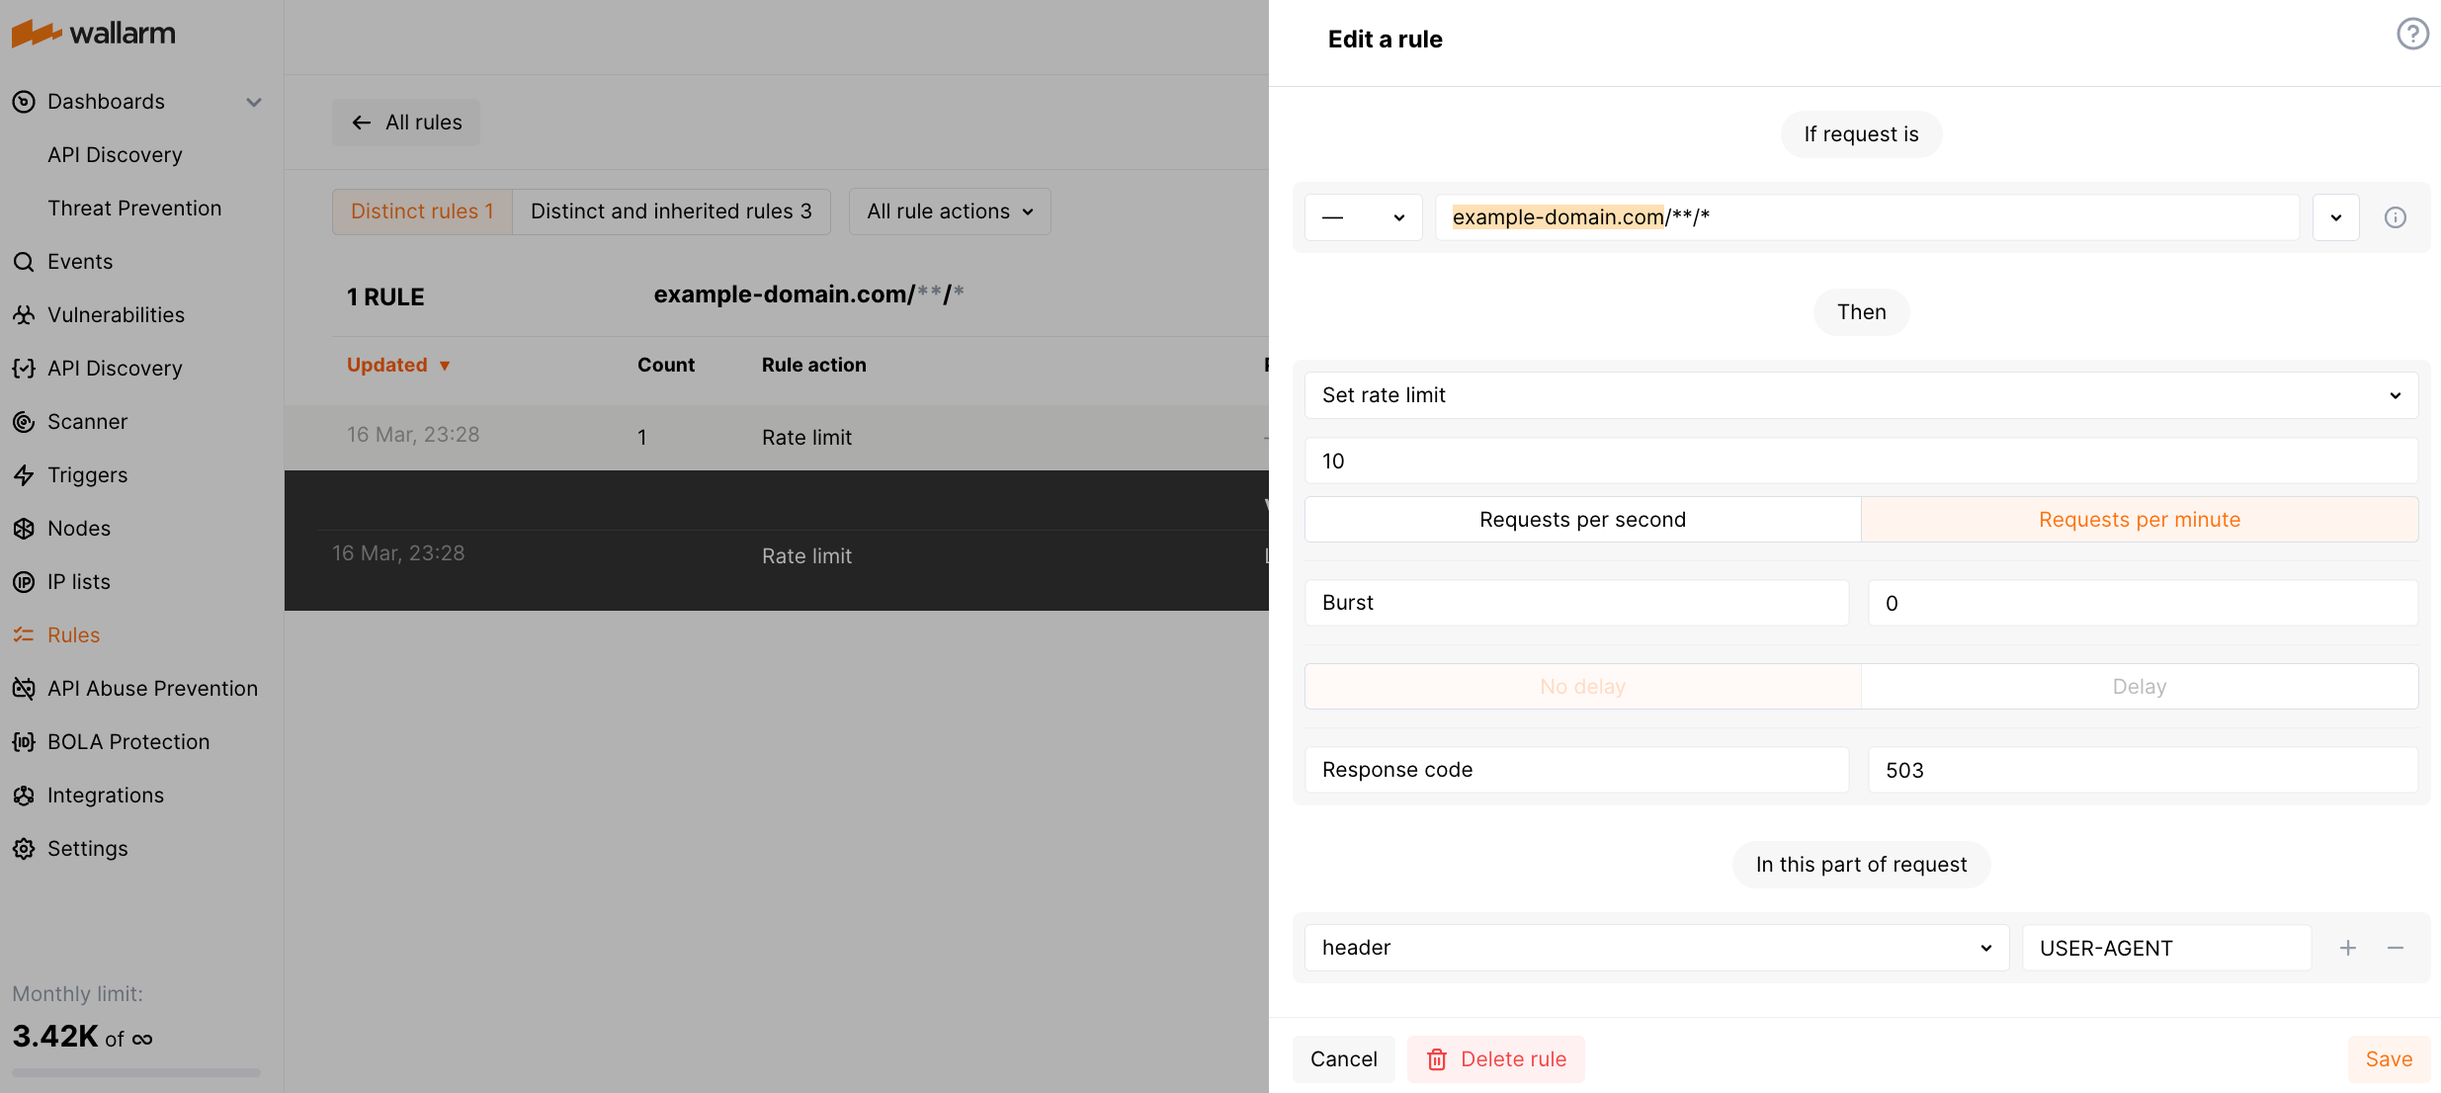
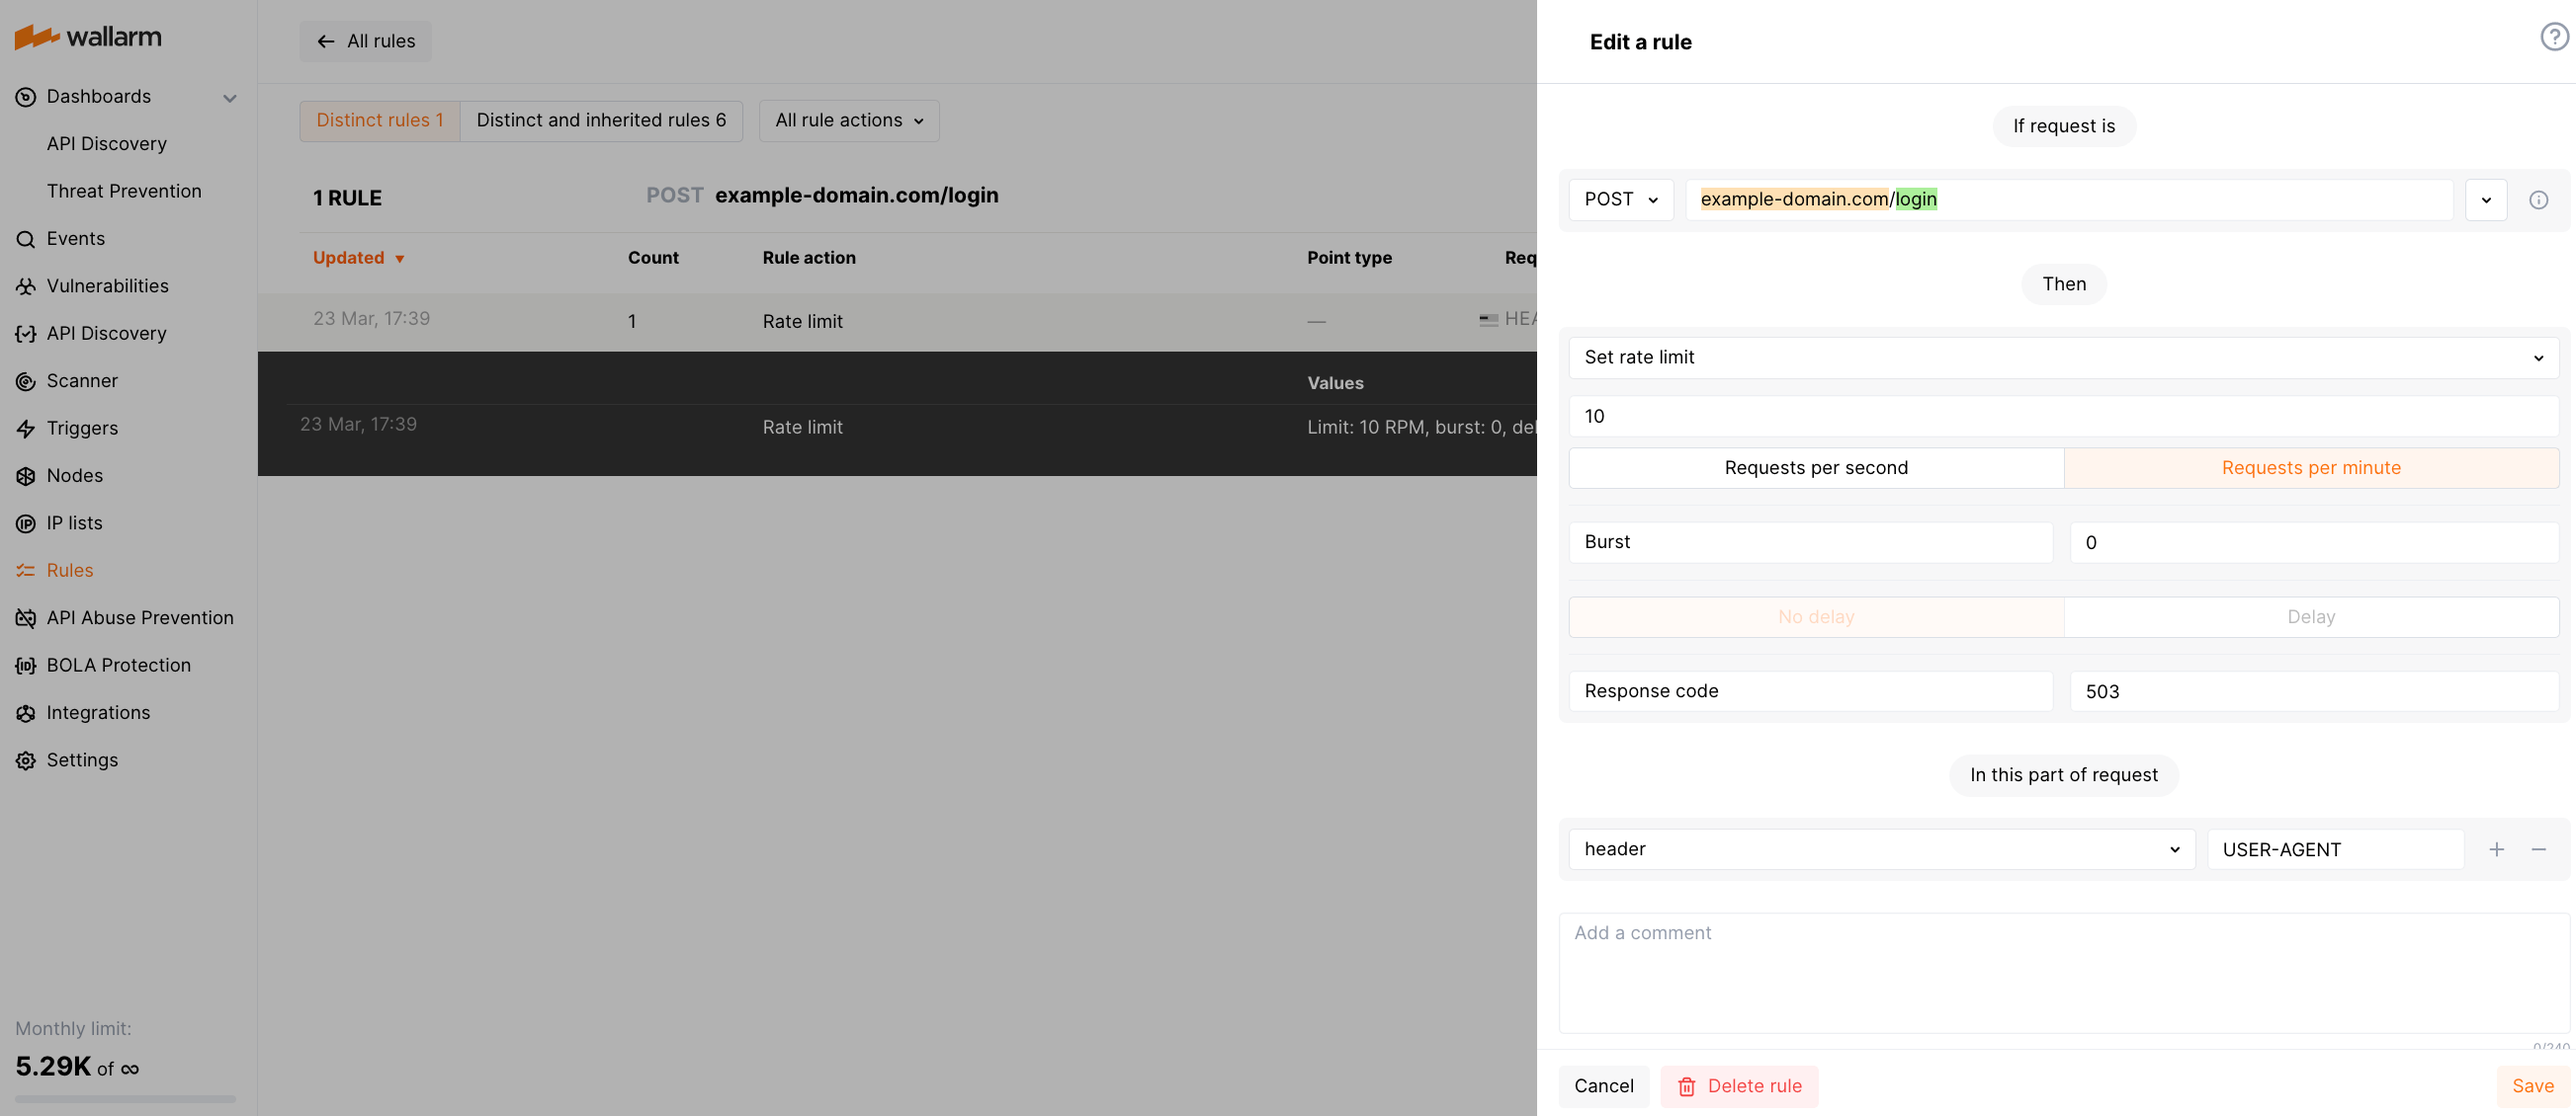
DOCS-1801 polish rate limit use cases

diff --git a/docs/latest/user-guides/rules/rate-limiting.md b/docs/latest/user-guides/rules/rate-limiting.md
@@ -4,7 +4,7 @@ Lack of rate limiting is included in the [OWASP API Top 10 2019](https://github.
 
 Wallarm provides the **Set rate limit** rule to help prevent excessive traffic to your API. This rule enables you to specify the maximum number of connections that can be made to a particular scope, while also ensuring that incoming requests are evenly distributed. If a request exceeds the defined limit, Wallarm rejects it and returns the code you selected in the rule.
 
-You can limit connections based on any request parameter, including source IP address, request headers with user session identifiers, JSON objects, and more.
+Wallarm examines various request parameters such as cookies or JSON fields, which allows you to limit connections based not only on the source IP address, but also on session identifiers, usernames, or email addresses. This additional level of granularity enables you to enhance the overall security of a platform based on any origin data.
 
 ## Creating and applying the rule
 
@@ -27,12 +27,12 @@ To set and apply rate limit:
     All available points are described [here](request-processing.md), you can choose those matching your particular use case, e.g.:
     
     * `remote_addr` to limit connections by origin IP
-    * `json` → `json_docs` → `json_obj` → `api_key` to limit connections by the `api_key` JSON body parameter
+    * `json` → `json_doc` → `hash` → `api_key` to limit connections by the `api_key` JSON body parameter
 1. Wait for the [rule compilation to complete](compiling.md).
 
 ## Rule examples
 
-### Limiting IP connections to prevent DoS attacks on API endpoint
+<!-- ### Limiting IP connections to prevent DoS attacks on API endpoint
 
 Suppose you have a section in the UI that returns a list of users, with a limit of 200 users per page. To fetch the page, the UI sends a request to the server using the following URL: `https://example-domain.com/api/users?page=1&size=200`.
 
@@ -40,7 +40,17 @@ However, an attacker could exploit this by changing the `size` parameter to an e
 
 Limiting connections to the endpoint helps to prevent such attacks. You can limit the number of connections to the endpoint to 1000 per minute. This assumes that, on average, 200 users are requested 5 times per minute. The rule specifies that this limit applies to each IP trying to access the endpoint within minute. The `remote_address` [point](request-processing.md) is used to identify the IP address of the requester.
 
-![!Example](../../images/user-guides/rules/rate-limit-for-200-users.png)
+![!Example](../../images/user-guides/rules/rate-limit-for-200-users.png) -->
+
+### Limiting connections by IP to ensure high API availability
+
+Suppose a healthcare company's REST API letting doctors to submit patient information through a POST request to the `/patients` endpoint of the `https://example-host.com` host. This endpoint contains sensitive personal health information, and it is important to ensure that it is not abused or overwhelmed by a large number of requests.
+
+Limiting connections by IP within a certain period of time specifically for the `/patients` endpoint could prevent this. This ensures the stability and availability of the endpoint to all doctors, while also protecting the security of patient information by preventing DoS attacks.
+
+For example, limit can be set to 5 POST requests per minute for each IP address as follows:
+
+![!Example](../../images/user-guides/rules/rate-limit-by-ip-for-patients.png)
 
 ### Limiting connections by sessions to prevent brute force attacks on auth parameters
 
@@ -52,15 +62,15 @@ Suppose your application assigns each user session with a unique ID and reflects
 
 The [regexp](add-rule.md#condition-type-regex) used for the `Authorization` value is ``^Bearer\s+([a-zA-Z0-9-_]+[.][a-zA-Z0-9-_]+[.][a-zA-Z0-9-_]+)$`.
 
-If your authentication mechanism mandates users to pass the token in a different header, you can modify the rule as needed.
+If you use JWT (JSON Web Tokens) to manage user sessions, you can adjust the rule to [decrypt](request-processing.md#jwt) the JWT and extract the session ID from its payload as follows:
 
-### User-Agent-based rate limiting to prevent attacks on API endpoints
+![!Example](../../images/user-guides/rules/rate-limit-for-session-in-jwt.png)
 
-Let's say you have an old version of your application has some known security vulnerabilities allowing letting attackers brute force API using the vulnerable application version. Usually, the `User-Agent` header is used to pass browser/application versions. To prevent the brute force attack via the old application version, you can implement `User-Agent`-based rate limiting.
+### User-Agent based rate limiting to prevent attacks on API endpoints
+
+Let's say you have an old version of your application has some known security vulnerabilities allowing attackers to brute force API endpoint `https://example-domain.com/login` using the vulnerable application version. Usually, the `User-Agent` header is used to pass browser/application versions. To prevent the brute force attack via the old application version, you can implement `User-Agent` based rate limiting.
 
 For example, you can set a limit of 10 requests per minute for each `User-Agent`. If a specific `User-Agent` is making more than 10 requests evenly distributed per minute, further requests from that `User-Agent` are rejected till a new period start.
-
-The following rate limiting rule limits requests to any path of the `https://example-domain.com` host (e.g. `/users`, `/items/books`, `/payments/{payment_id}/users`):
 
 ![!Example](../../images/user-guides/rules/rate-limit-by-user-agent.png)
 
@@ -78,7 +88,18 @@ In this specific case, the rate limiting rule is applied to connections by URI, 
 * Response code: reject requests exceeding the limit and the burst with the 503 code
 * Wallarm identifies repeated requests targeted at a single endpoint by the `uri` [point](request-processing.md)
 
+    !!! info "Query parameters are not included into URI"
+        This rule limits requests targeted at any path of the specified domain which does not contain any query parameters.
+
 ![!Example](../../images/user-guides/rules/rate-limit-by-uri.png)
+
+### Limiting connections by customer IDs to prevent server overhelm
+
+Let us consider a web service that provides access to customer orders data for an online shopping platform. Rate limiting by customer ID can help prevent customers from placing too many orders in a short period of time, which can put a strain on inventory management and order fulfillment.
+
+For example, the rule limiting each customer by 10 POST requests per minute to `https://example-domain.com/orders` may look as below. This example considers a customer ID is [passed](request-processing.md#json_doc) in the `data.customer_id` JSON body object.
+
+![!Example](../../images/user-guides/rules/rate-limit-by-customer-id.png)
 
 ## Limitations and pecularities
 
